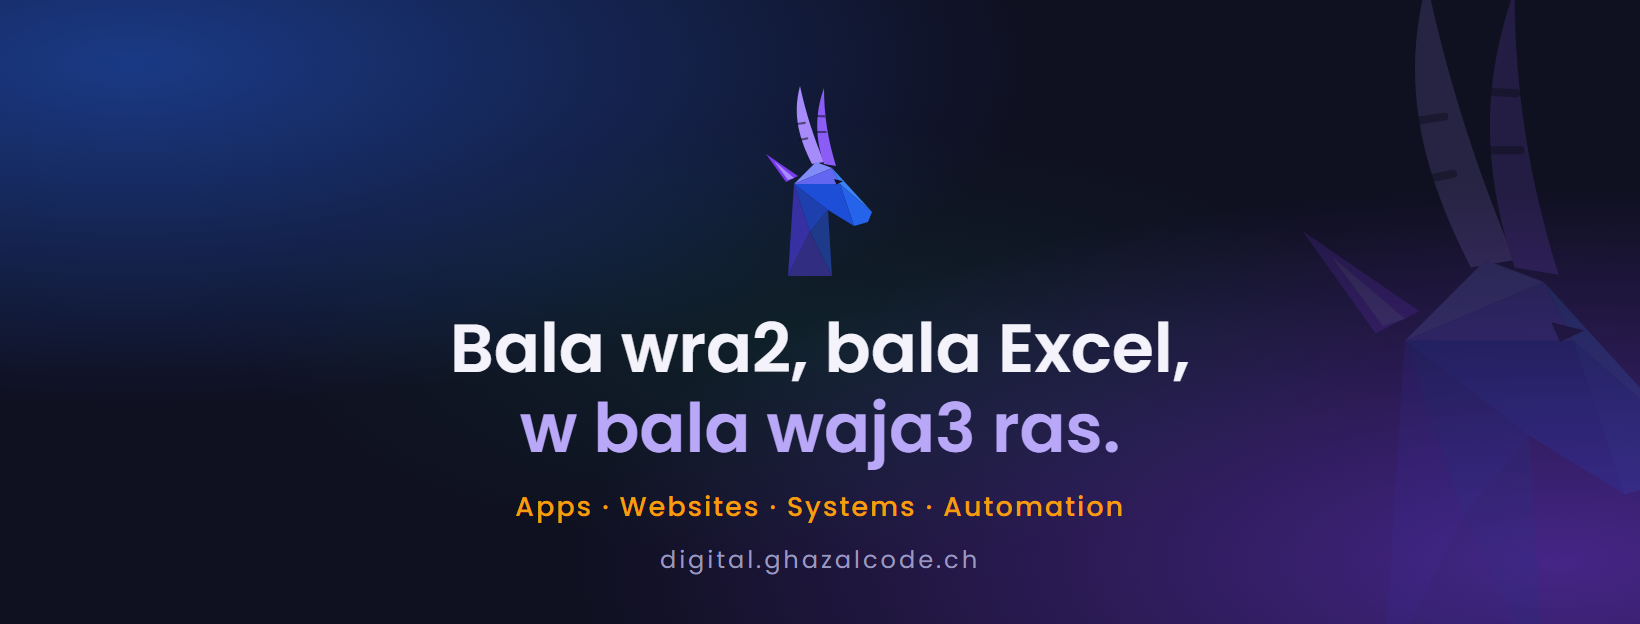
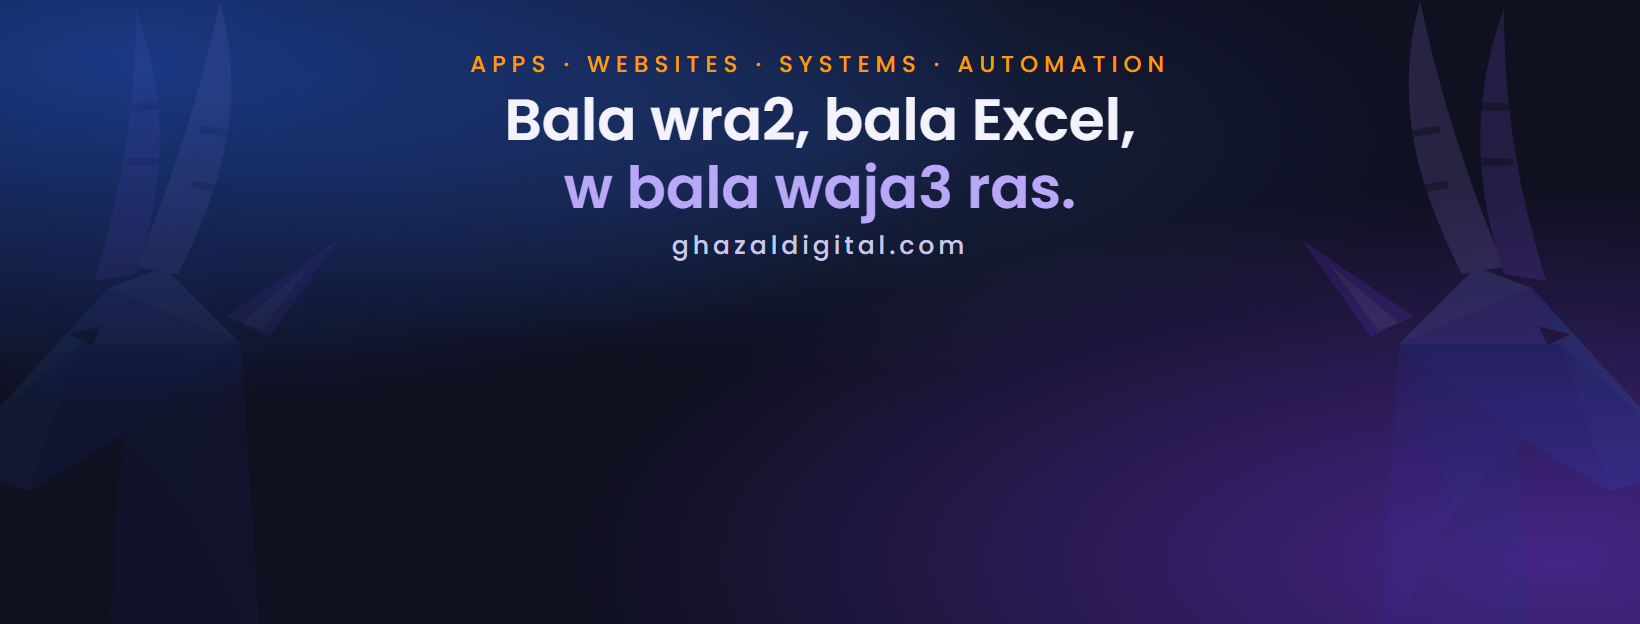
Switch WhatsApp to the business number, unify Arabizi spelling, add 404 page and new cover
- WhatsApp links now go to +961 3 998 193
- Consistent spelling: sheghl, 3endak, Khabberna, lezem, tesleem, As3ar
- Branded 404 page; meta descriptions match the hero text
- Facebook cover with ghazaldigital.com and text clear of the profile picture
- Bump cache tokens

diff --git a/content.js b/content.js
@@ -19,7 +19,7 @@
 */
 const BRAND = {
   name: "Ghazal — Digital Solutions",
-  whatsapp: "https://wa.me/96170872960",
+  whatsapp: "https://wa.me/9613998193",
   formEndpoint: "https://formsubmit.co/ajax/info@ghazalcode.ch"
 };
 
@@ -33,7 +33,7 @@ const CONTENT = {
     langLabel: "3arabe",
     htmlLang: "ar-Latn",
     meta: {
-      title: "Ghazal — Digital Solutions | Apps, websites w systems la shoghlak",
+      title: "Ghazal — Digital Solutions | Apps, websites w systems la sheghlak",
       description: "Bala wra2, bala Excel, w bala waja3 ras. Mna3mellak apps, websites w systems 3a2ad sheghlak — w iza 3endak shi 3atlan aw 3am yekhud wa2tak, mensal7u w menkhalli Automatic!."
     },
     nav: [["#services", "Shu mna3mel"], ["#process", "Kif mnshteghel"], ["#contact", "7kina"]],
@@ -63,17 +63,17 @@ const CONTENT = {
       contact: { q: "Ra7 nkhallis — wen fina n7kik?", summary: "Talabak", name: "Esmak", phone: "Ra2m el WhatsApp", note: "Fi shi tene? (optional)", send: "B3at", whatsapp: "Aw b3at 3al WhatsApp" },
       categories: [
         { id: "website", icon: "🌐", title: "Website", text: "Tkoun mawjoud online w tjib zbeyen",
-          details: ["Safha bta3rruf 3an shoghle", "Online shop / talabiyet", "7ajez w mawa3id", "Menu aw catalogue lal products"] },
+          details: ["Safha bta3rruf 3an sheghle", "Online shop / talabiyet", "7ajez w mawa3id", "Menu aw catalogue lal products"] },
         { id: "app", icon: "📱", title: "App", text: "Lal staff aw lal zbeyen",
           details: ["Lal staff ysajjlo stock, talabiyet aw tesleem", "Lal zbeyen yotlobo aw ye7jzo", "Points w offers lal zbeyen", "Byeshteghel bala internet"] },
         { id: "both", icon: "🔗", title: "Website + App", text: "Kel shi byeshteghel ma3 ba3do",
           details: ["El zbun byotlob online w el staff bit2abba3 bel app", "7ajez online, w el idara men el telephone", "Catalogue 3al website w talabiyet bel app", "Ma ba3ref ba3d — sa3edne khattet"] },
-        { id: "system", icon: "⚙", title: "System lal shoghl", text: "Stock, talabiyet w staff b mahall wa7ad",
-          details: ["Stock w inventory", "Talabiyet w tasleem", "Zbeyen w follow-up", "Staff, shifts w mahamm", "Dashboard w ta2arir"] },
+        { id: "system", icon: "⚙", title: "System lal sheghl", text: "Stock, talabiyet w staff b mahall wa7ad",
+          details: ["Stock w inventory", "Talabiyet w tesleem", "Zbeyen w follow-up", "Staff, shifts w mahamm", "Dashboard w ta2arir"] },
         { id: "billing", icon: "🧾", title: "Fawater w 7sebet", text: "Fawater, wusulat w meen 3leh masari",
           details: ["Fawater w wusulat jehze lal tab3a", "Shouf meen 3leh masari", "Kashf 7sab shahri la kel zbun", "Export lal mo7aseb"] },
-        { id: "fix", icon: "🛠", title: "Tasli7 aw ta7sin", text: "Shi 3andak mish 3am yemshi mni7",
-          details: ["El website bati2 aw 3atlan", "El app fiya mashekel", "El Excel tafaj", "Automation la shoghl byetkarrar kel yom", "Wassel programs ma 3am ye7ko ba3don"] }
+        { id: "fix", icon: "🛠", title: "Tasli7 aw ta7sin", text: "Shi 3endak mish 3am yemshi mni7",
+          details: ["El website bati2 aw 3atlan", "El app fiya mashekel", "El Excel tafaj", "Automation la sheghl byetkarrar kel yom", "Wassel programs ma 3am ye7ko ba3don"] }
       ],
       timeline: ["Bi2a2rab wa2et", "Khilel 1–3 ishhor", "Ma fi 3ajle"],
       subject: "Guided request — Ghazal Digital",
@@ -81,7 +81,7 @@ const CONTENT = {
       sending: "3am yetb3at…",
       done: { title: "Wosolet! 🎉", text: "Mnb3atlak 3al WhatsApp b2a2rab wa2et.", close: "Tamem" },
       error: "Fi shi ma zabat. Jarreb kamen marra, aw b3at 3al WhatsApp.",
-      wa: { intro: "Marhaba! 3abbet el guide 3al website.", category: "Baddi", details: "Lazem ya3mel", timeline: "Emta", name: "Esme", note: "Mula7aza" }
+      wa: { intro: "Marhaba! 3abbet el guide 3al website.", category: "Baddi", details: "Lezem ya3mel", timeline: "Emta", name: "Esme", note: "Mula7aza" }
     },
 
     services: {
@@ -92,14 +92,14 @@ const CONTENT = {
           id: "fix",
           icon: "🛠",
           title: "Mnsalle7, mntawwer w mna3mel automation",
-          lead: "3andak system, website aw Excel, bas mish 3am yemshi metl ma lezem?",
+          lead: "3endak system, website aw Excel, bas mish 3am yemshi metl ma lezem?",
           points: [
             "Website bati2 aw 3atlan? Mnsalle7o.",
             "System 2adim? Mnjaddo w mnzidlo li na2so.",
-            "Shoghl byetkarrar kel yom — fawater, ta2arir, data entry? Mnkhalli yemshi la7alo.",
+            "Sheghl byetkarrar kel yom — fawater, ta2arir, data entry? Mnkhalli yemshi la7alo.",
             "Programs ma 3am ye7ko ba3don? Mnwasselon ma3 ba3d."
           ],
-          cta: "Khabbirna shu el meshkle →"
+          cta: "Khabberna shu el meshkle →"
         },
         {
           id: "build",
@@ -134,7 +134,7 @@ const CONTENT = {
       items: [
         { icon: "⚡", title: "Byeshteghel bala internet", text: "Ra7et el kahraba? 2ata3 el internet? El system bikammel, w bi3mel sync lamma yerja3 el khatt." },
         { icon: "💬", title: "3al WhatsApp", text: "El talabiyet, el fawater w el ta2arir bewsalo 3al WhatsApp — matra7 ma enta w zbeynak 3ayshin aslan." },
-        { icon: "💵", title: "Ass3ar wad7a", text: "Kel shi bel dollar w maktoub men el awwal. Ma fi shi mkhabba." },
+        { icon: "💵", title: "As3ar wad7a", text: "Kel shi bel dollar w maktoub men el awwal. Ma fi shi mkhabba." },
         { icon: "🤝", title: "Nafs el shakhs men el awwal lal ekher", text: "Btehke ma3 nafs el shakhs men awwal 7ake la ekher tasli7 — mish ma3 call center. W mnjewbak." }
       ]
     },
@@ -166,7 +166,7 @@ const CONTENT = {
             { name: "email", label: "Email (optional)", type: "email", half: true, autocomplete: "email" },
             { name: "business", label: "Esm el ma7al aw el sharike (optional)", type: "text", half: true, autocomplete: "organization" },
             { name: "topic", label: "Shu baddo tasli7?", type: "select", required: true, half: true,
-              options: ["Website", "App aw system", "Excel aw daftar", "Programs lazem ye7ko ma3 ba3don", "Shi tene"] },
+              options: ["Website", "App aw system", "Excel aw daftar", "Programs lezem ye7ko ma3 ba3don", "Shi tene"] },
             { name: "urgency", label: "Ade mesta3jel?", type: "select", half: true,
               options: ["3atlan hala2", "Bel jem3at el jeyye", "3am es2al bas"] },
             { name: "message", label: "Shu el meshkle, aw shu 3am yekol wa2tak?", type: "textarea", required: true }
@@ -174,7 +174,7 @@ const CONTENT = {
         },
         build: {
           tab: "App aw website",
-          intro: "Website jdid, app jdid, aw nuskha a7san men li 3andak.",
+          intro: "Website jdid, app jdid, aw nuskha a7san men li 3endak.",
           subject: "Build / upgrade — Ghazal Digital",
           submit: "B3at",
           fields: [
@@ -186,7 +186,7 @@ const CONTENT = {
               options: ["Website jdid", "Tatwir el website li 3ande", "App jdid lal staff aw lal zbeyen", "Tatwir el app li 3ande", "System dakhile aw dashboard", "Ma ba3ref ba3d"] },
             { name: "timeline", label: "Emta baddak yeh?", type: "select",
               options: ["Bi2a2rab wa2et", "Khilel 1–3 ishhor", "Ba3d shway", "Ma fi 3ajle"] },
-            { name: "message", label: "Khabbirna 3an shoghlak w shu baddak ya3mel", type: "textarea", required: true }
+            { name: "message", label: "Khabberna 3an sheghlak w shu baddak ya3mel", type: "textarea", required: true }
           ]
         }
       }

diff --git a/index.html b/index.html
@@ -6,8 +6,8 @@
 <meta charset="UTF-8">
 <meta name="viewport" content="width=device-width, initial-scale=1.0">
 
-<title>Ghazal — Digital Solutions | Apps, websites w systems la shoghlak</title>
-<meta name="description" content="Bala wara2, bala Excel, w bala wja3 ras. Mna3mellak apps, websites w systems 3a2ad shoghlak — w iza 3andak shi 3atlan aw 3am yekol wa2tak, mnsalle7o w mnkhallih yemshi la7alo.">
+<title>Ghazal — Digital Solutions | Apps, websites w systems la sheghlak</title>
+<meta name="description" content="Bala wra2, bala Excel, w bala waja3 ras. Mna3mellak apps, websites w systems 3a2ad sheghlak — w iza 3endak shi 3atlan aw 3am yekhud wa2tak, mensal7u w menkhalli Automatic!.">
 <link rel="canonical" href="https://ghazaldigital.com/">
 <meta name="theme-color" content="#0f1020">
 
@@ -16,7 +16,7 @@
 <meta property="og:site_name" content="Ghazal — Digital Solutions">
 <meta property="og:url" content="https://ghazaldigital.com/">
 <meta property="og:title" content="Ghazal — Digital Solutions">
-<meta property="og:description" content="Bala wara2, bala Excel, w bala wja3 ras. Apps, websites & systems for your business.">
+<meta property="og:description" content="Bala wra2, bala Excel, w bala waja3 ras. Apps, websites &amp; systems for your business.">
 <meta property="og:image" content="https://ghazaldigital.com/assets/og-image.png">
 <meta property="og:image:width" content="1200">
 <meta property="og:image:height" content="630">
@@ -60,7 +60,7 @@
 <link rel="stylesheet" href="assets/fonts/poppins.css">
 <!-- The ?v= token is a cache buster: GitHub Pages serves files with a 10-minute
      cache, so bump it on every page whenever a shared file changes. -->
-<link rel="stylesheet" href="style.css?v=20261116a">
+<link rel="stylesheet" href="style.css?v=20261116b">
 </head>
 <body>
 
@@ -167,8 +167,8 @@
   </p>
 </footer>
 
-<script src="content.js?v=20261116a"></script>
-<script src="script.js?v=20261116a"></script>
-<script src="wizard.js?v=20261116a"></script>
+<script src="content.js?v=20261116b"></script>
+<script src="script.js?v=20261116b"></script>
+<script src="wizard.js?v=20261116b"></script>
 </body>
 </html>

diff --git a/404.html b/404.html
@@ -1,0 +1,37 @@
+<!DOCTYPE html>
+<!-- GitHub Pages serves this for any address that doesn't exist. Paths are
+     absolute (/style.css) because it can be shown at any depth. -->
+<html lang="ar-Latn">
+<head>
+<meta charset="UTF-8">
+<meta name="viewport" content="width=device-width, initial-scale=1.0">
+<meta name="robots" content="noindex">
+<title>Ma la2ayna hal safha — Ghazal Digital</title>
+<meta name="theme-color" content="#0f1020">
+<link rel="icon" href="/assets/favicon.svg" type="image/svg+xml">
+<meta http-equiv="Content-Security-Policy" content="default-src 'self'; base-uri 'none'; object-src 'none'; script-src 'none'; style-src 'self'; font-src 'self'; img-src 'self' data:; form-action 'none'; upgrade-insecure-requests;">
+<link rel="stylesheet" href="/assets/fonts/poppins.css">
+<link rel="stylesheet" href="/style.css?v=20261116b">
+</head>
+<body>
+<div class="blob blob-1"></div>
+<div class="blob blob-2"></div>
+
+<header class="navbar">
+  <div class="nav-inner">
+    <a href="/" class="logo"><img class="logo-mark" src="/assets/logo-mark.svg" alt="" width="21" height="35"><span class="logo-text">Ghazal <small>Digital Solutions</small></span></a>
+  </div>
+</header>
+
+<main class="hero">
+  <div class="hero-content">
+    <h1>Ma la2ayna hal safha.</h1>
+    <p class="hero-text">Yemken el link ghalat aw el safha ma ba2a mawjoude. — This page doesn't exist.</p>
+    <div class="hero-actions">
+      <a class="btn btn-primary" href="/">Rje3 3al website</a>
+      <a class="btn btn-whatsapp" href="https://wa.me/9613998193" target="_blank" rel="noopener">7kina 3al WhatsApp</a>
+    </div>
+  </div>
+</main>
+</body>
+</html>

diff --git a/legal.html b/legal.html
@@ -23,7 +23,7 @@
 ">
 
 <link rel="stylesheet" href="assets/fonts/poppins.css">
-<link rel="stylesheet" href="style.css?v=20261116a">
+<link rel="stylesheet" href="style.css?v=20261116b">
 </head>
 <body>
 
@@ -45,7 +45,7 @@
   <p id="footerCopy"></p>
 </footer>
 
-<script src="content.js?v=20261116a"></script>
-<script src="legal.js?v=20261116a"></script>
+<script src="content.js?v=20261116b"></script>
+<script src="legal.js?v=20261116b"></script>
 </body>
 </html>
